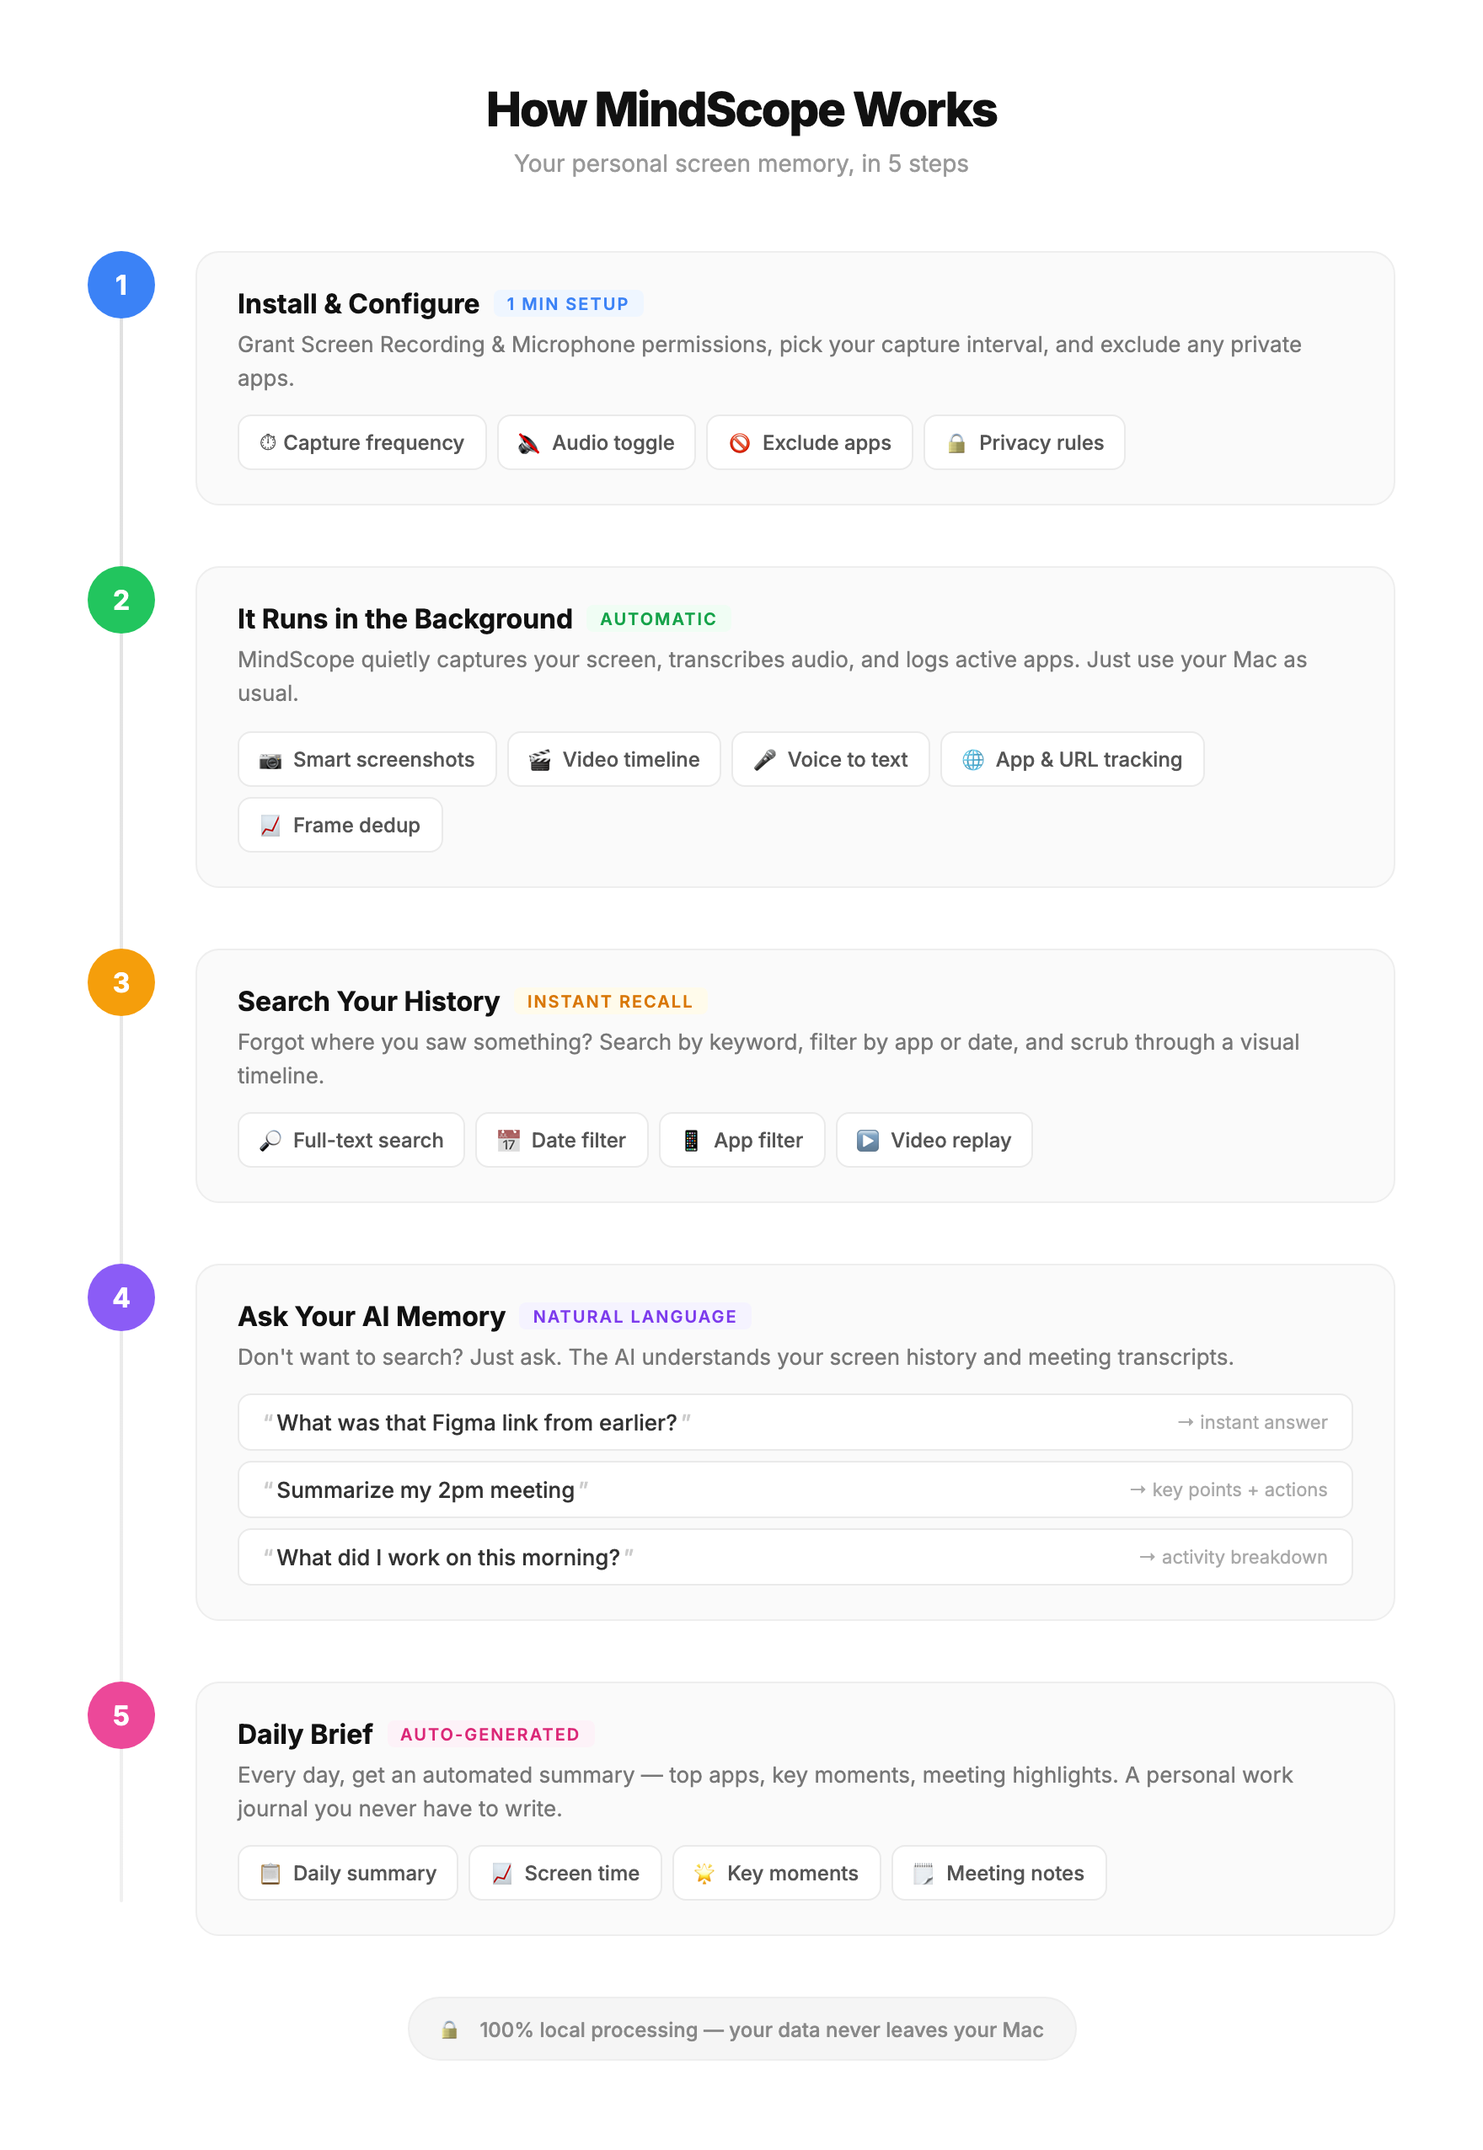
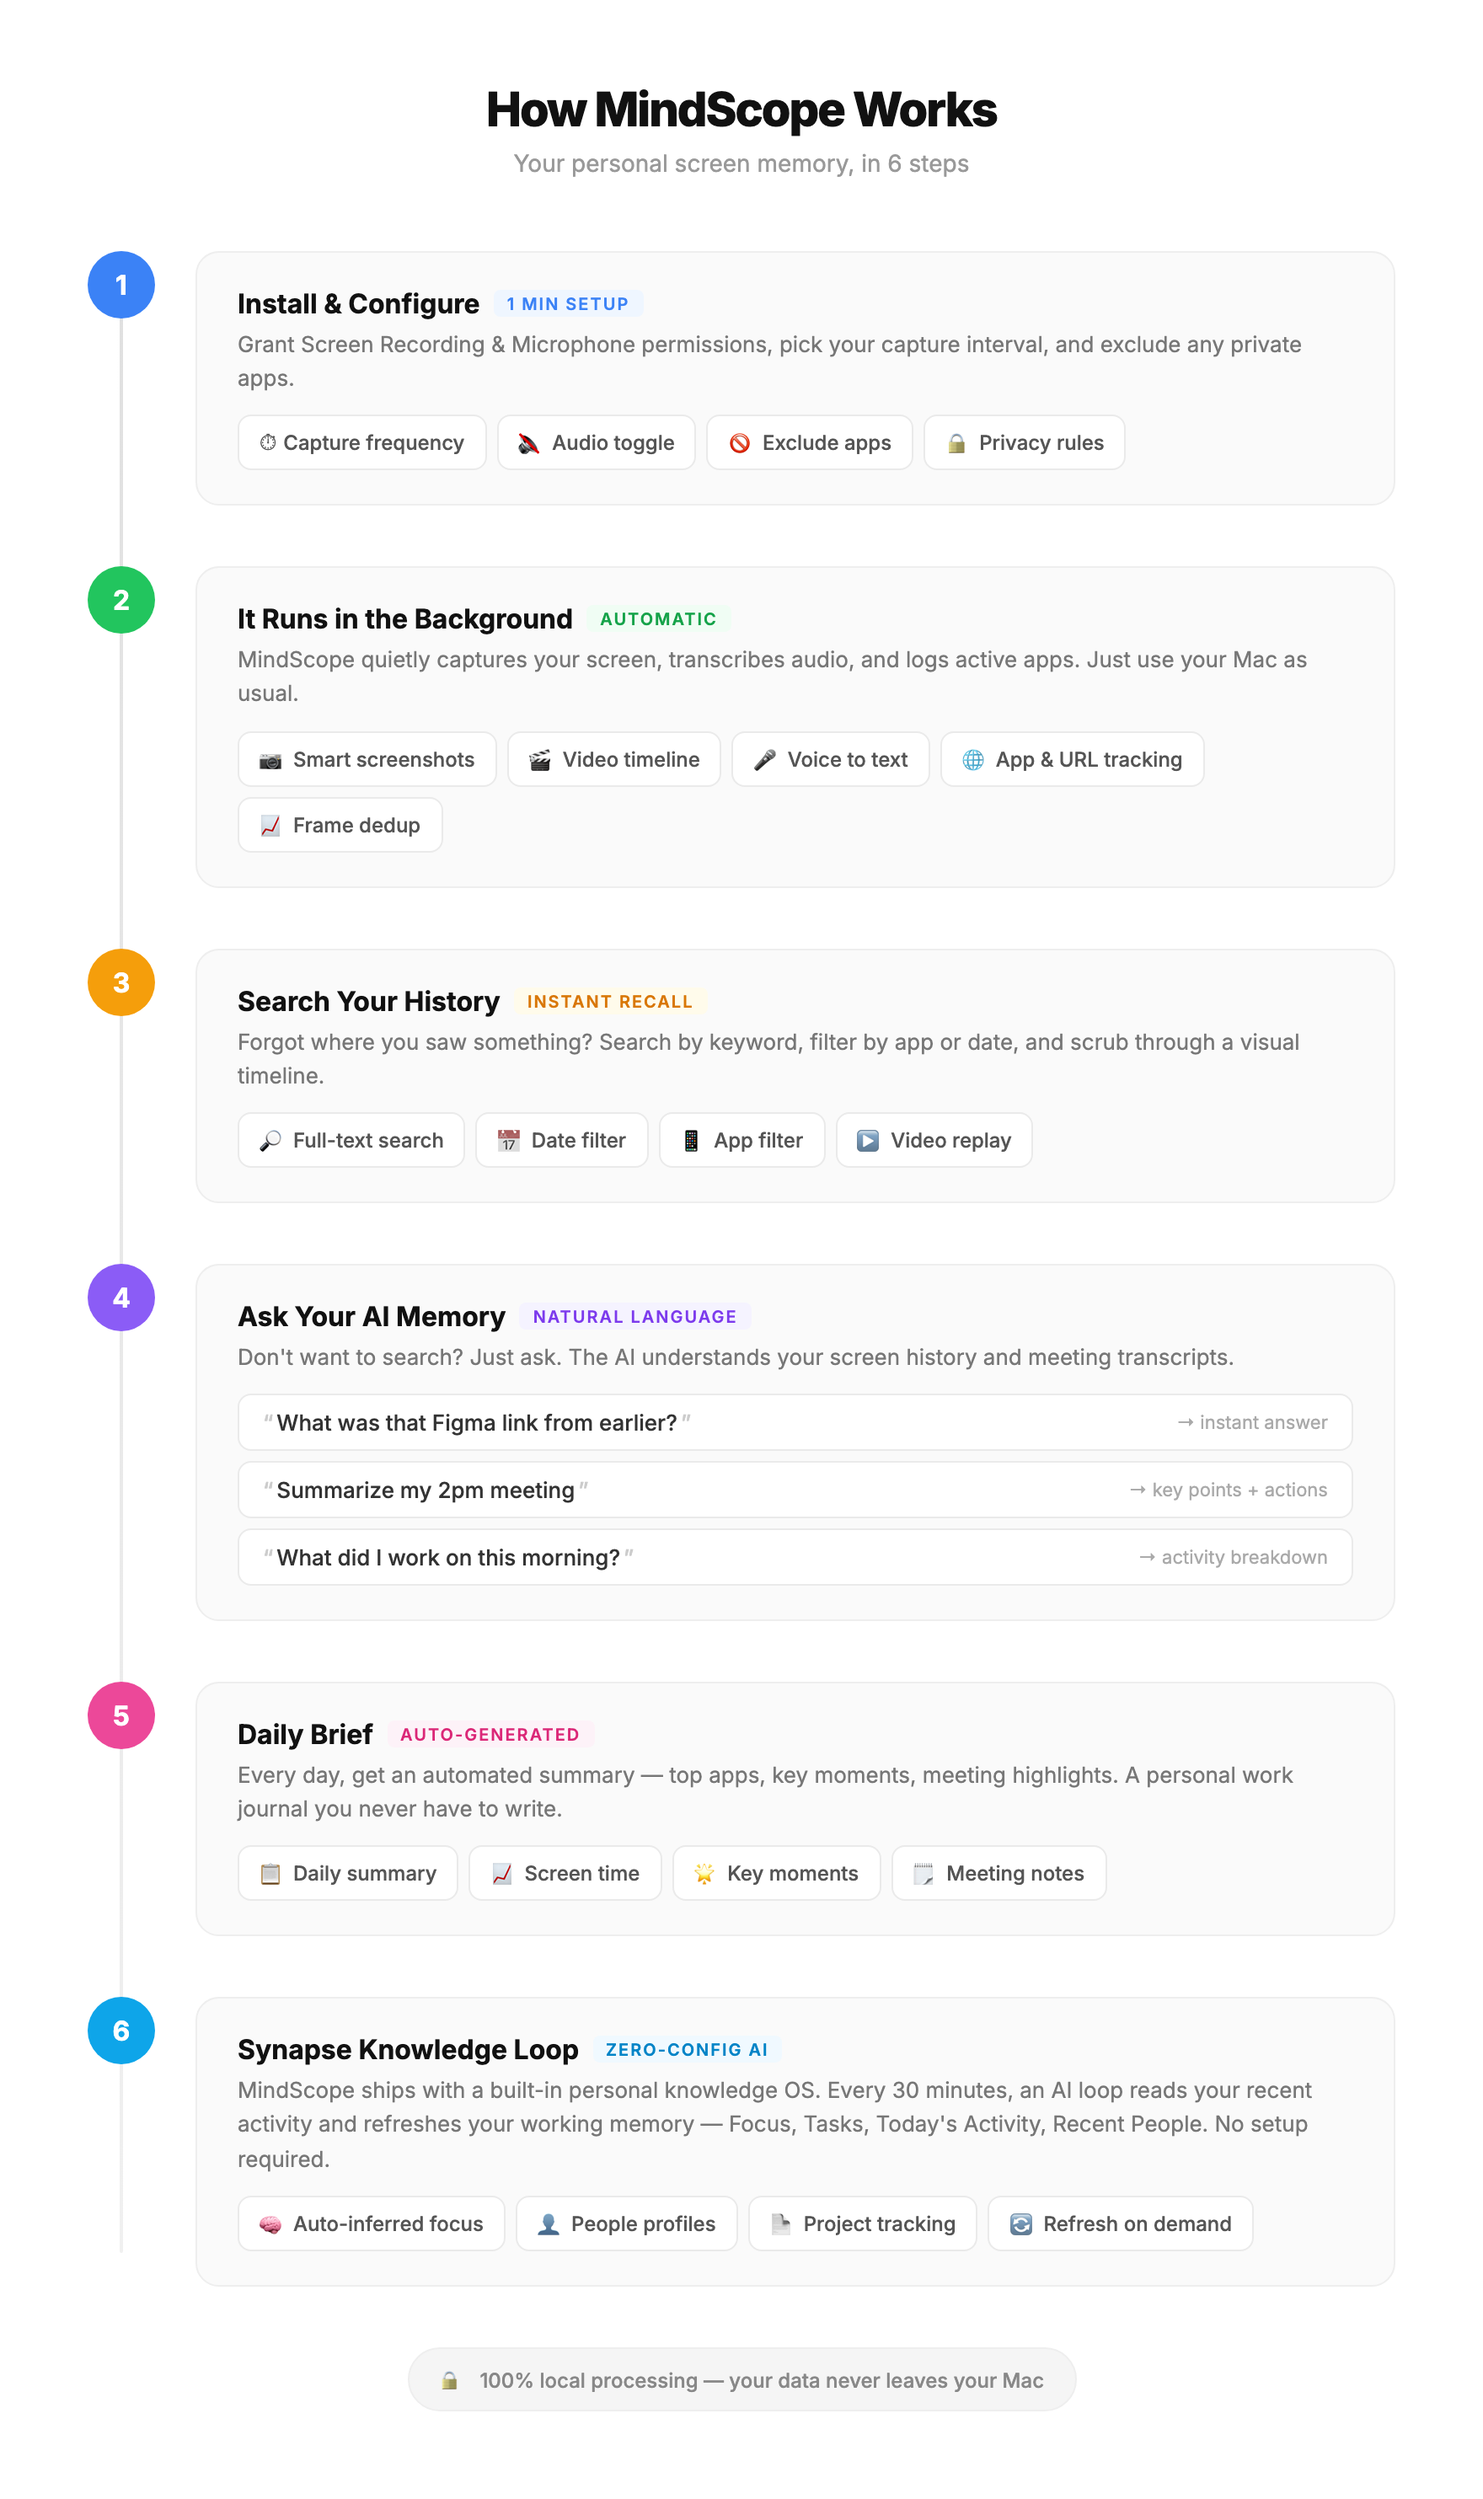
README + flowchart: Synapse integration, updated feature list
README
- New opening line: MindScope ships with Synapse (built-in knowledge OS)
- New "Synapse — Built-in Personal Knowledge OS" feature section
  documenting zero-config bootstrap, background AI loop (every 30 min),
  manual Refresh button flow, Wispr Flow / dictation filter
- Updated action table: mic/brief/rewind/time pill follows cursor,
  layered Esc behavior (panels → rewind → hide UI, background stays)
- Added Refresh Brief action that triggers Synapse on demand
- Data Storage tree updated: new ~/.mindscope/synapse/ dir, vault
  CLAUDE.md, .claude/skills symlink, all Swift helper binaries
- Added "auto-downloaded" note to Whisper model
- Knowledge Vault section now lists bundled skill names

FLOWCHART (assets/howit_works.png)
- Added Step 6 "Synapse Knowledge Loop" with cyan (#0ea5e9) styling
- Features: auto-inferred focus, people profiles, project tracking,
  refresh on demand
- Subtitle updated from "5 steps" to "6 steps"
- Re-rendered at 2x retina (1483px tall)

diff --git a/README.md b/README.md
@@ -4,6 +4,8 @@
 
 MindScope runs silently in the background, capturing your screen activity and transforming it into searchable, structured knowledge — all processed locally on your Mac.
 
+It comes with a built-in personal knowledge OS (**Synapse**) that auto-maintains a living vault of projects, people, meetings, and daily journals — no separate setup required.
+
 ---
 
 ## How It Works
@@ -45,16 +47,17 @@ MindScope lives as a thin bar at the bottom of your screen. Click anywhere on th
 
 | Action | How |
 |--------|-----|
-| **Toggle recording audio** | Click the 🎙 mic button (turns red + pulses when recording) |
-| **Open Daily Brief** | Click the 📋 clipboard icon |
+| **Toggle recording audio** | Click the mic button (turns red + pulses when recording) |
+| **Open Daily Brief** | Click the clipboard icon |
+| **Refresh Brief (run Synapse)** | Click "Refresh" in the Brief panel — triggers the AI loop |
 | **Ask AI** | Click the "Ask" field, type a question, press Enter |
-| **Enter Rewind mode** | Click the ⏪ rewind button or click anywhere on the timeline |
-| **Scrub timeline** | Click or drag anywhere on the bottom bar (full 24h visible) |
+| **Enter Rewind mode** | Click the rewind button or click anywhere on the timeline |
+| **Scrub timeline** | Move cursor over the timeline — time pill follows your mouse |
 | **Browse history** | Two-finger swipe on the timeline |
 | **Jump to date** | Click the time label for a calendar picker |
 | **Search** | In Rewind mode, click the search field |
-| **Settings** | Click the ⚙ gear icon |
-| **Hide window** | Press `Esc` or click outside any panel |
+| **Settings** | Click the gear icon |
+| **Layered Esc** | 1st press closes panels → 2nd exits rewind → 3rd hides UI (background keeps running) |
 
 ### Timeline
 
@@ -168,14 +171,24 @@ Clicking the mic button during an auto-recorded meeting stops it and suppresses 
 ### AI Assistant
 - Chat + Transcript tabs in the AI panel
 - Natural-language Q&A over screen history + vault + meeting transcripts
-- Daily Brief with 5 sections (Now / Today / Recent Meetings / Focus / Tasks)
+- Daily Brief with 5 sections (Now / Today / Recent Meetings / Focus / Tasks / Stats)
 - Quick actions during meetings: "What should I say?", "Recap", "Follow-up questions"
+- Esc key — layered dismiss (close panels → exit rewind → hide UI, background keeps running)
+
+### Synapse — Built-in Personal Knowledge OS
+- **Zero-config**: no external install, no OAuth, no extra daemon. Ships bundled with MindScope.
+- **Auto-bootstrap** on first launch: seeds `~/.mindscope/synapse/` + `~/.mindscope/vault/` with skill definitions and a working-memory template
+- **Background AI loop**: every 30 minutes, Claude CLI reads the last 2 hours of screen activity + audio transcripts and refreshes `_working-memory.md` — Current Focus, Live Tasks, Today's Activity, Recent People
+- **Manual refresh**: the Refresh button in the Brief panel triggers a Synapse update on demand and polls until complete
+- **Wispr Flow / dictation filter**: Synapse ignores false-positive "mic in use" signals from dictation apps so recording only auto-starts for real meetings
+- **Works with Claude CLI only**: no API keys, no cloud storage, no external services
 
 ### Knowledge Vault
 - People profiles with auto-updated last contact dates
 - Meeting notes linked to attendees and projects
 - Daily journal auto-generated at end of day
 - Cross-references via wikilinks (Obsidian-compatible markdown)
+- Bundled skills for vault maintenance: `command-center`, `daily-journal`, `detect-people`, `dendron-add`, `dendron-query`, `sync/vault-updater`
 
 ### Automation (Pipes)
 - YAML-defined pipelines with cron schedules
@@ -197,23 +210,33 @@ All data lives under `~/.mindscope/`:
 ```
 ~/.mindscope/
 ├── data/
-│   ├── frames/         # Screenshots (JPEG, organized by date)
-│   ├── segments/       # HEVC video segments
-│   ├── audio/          # Audio chunks + transcripts, indexed by date
-│   └── mindscope.db    # SQLite database (frames, OCR, FTS5 index)
-├── vault/              # Knowledge vault (markdown)
-│   ├── meet.*.md         # Meeting notes
-│   ├── daily.journal.*.md  # Daily journals
-│   └── _working-memory.md  # Your current focus + tasks
+│   ├── frames/              # Screenshots (JPEG, organized by date)
+│   ├── segments/            # HEVC video segments
+│   ├── audio/               # Audio chunks + transcripts, indexed by date
+│   └── mindscope.db         # SQLite database (frames, OCR, FTS5 index)
+├── vault/                   # Knowledge vault (markdown)
+│   ├── CLAUDE.md              # Synapse system prompt (copy of bundled)
+│   ├── _working-memory.md     # Your current focus + tasks (auto-updated)
+│   ├── meet.*.md              # Meeting notes (auto-created from audio sessions)
+│   ├── daily.journal.*.md     # Daily journals (auto-generated at end of day)
+│   ├── user.*.md              # People profiles
+│   ├── proj.*.md              # Project files
+│   └── .claude/skills -> ../synapse/.claude/skills  (symlink)
+├── synapse/                 # Synapse knowledge OS (bundled resources)
+│   ├── CLAUDE.md              # System prompt
+│   └── .claude/skills/        # Skill definitions (command-center, etc.)
 ├── models/
-│   └── ggml-base.bin   # Multilingual Whisper model
-├── bin/                # Compiled Swift helpers
-│   ├── active_app
-│   ├── is_meeting
-│   ├── check_mic
-│   ├── topmost_window
-│   └── hevc_encoder
-└── pipes/              # Automation YAML configs
+│   └── ggml-base.bin        # Multilingual Whisper model (141 MB, auto-downloaded)
+├── bin/                     # Compiled Swift helpers
+│   ├── active_app             # Frontmost app detection
+│   ├── is_meeting             # Meeting + dictation filter
+│   ├── topmost_window         # Z-order window picker
+│   ├── capture_window         # ScreenCaptureKit wrapper
+│   ├── check_mic              # Mic permission check
+│   ├── hevc_encoder           # Streaming HEVC encoder
+│   └── frame_reader           # Video playback helper
+├── settings.json            # User preferences
+└── pipes/                   # Automation YAML configs
 ```
 
 Typical storage: **~400MB / day** with default settings.
